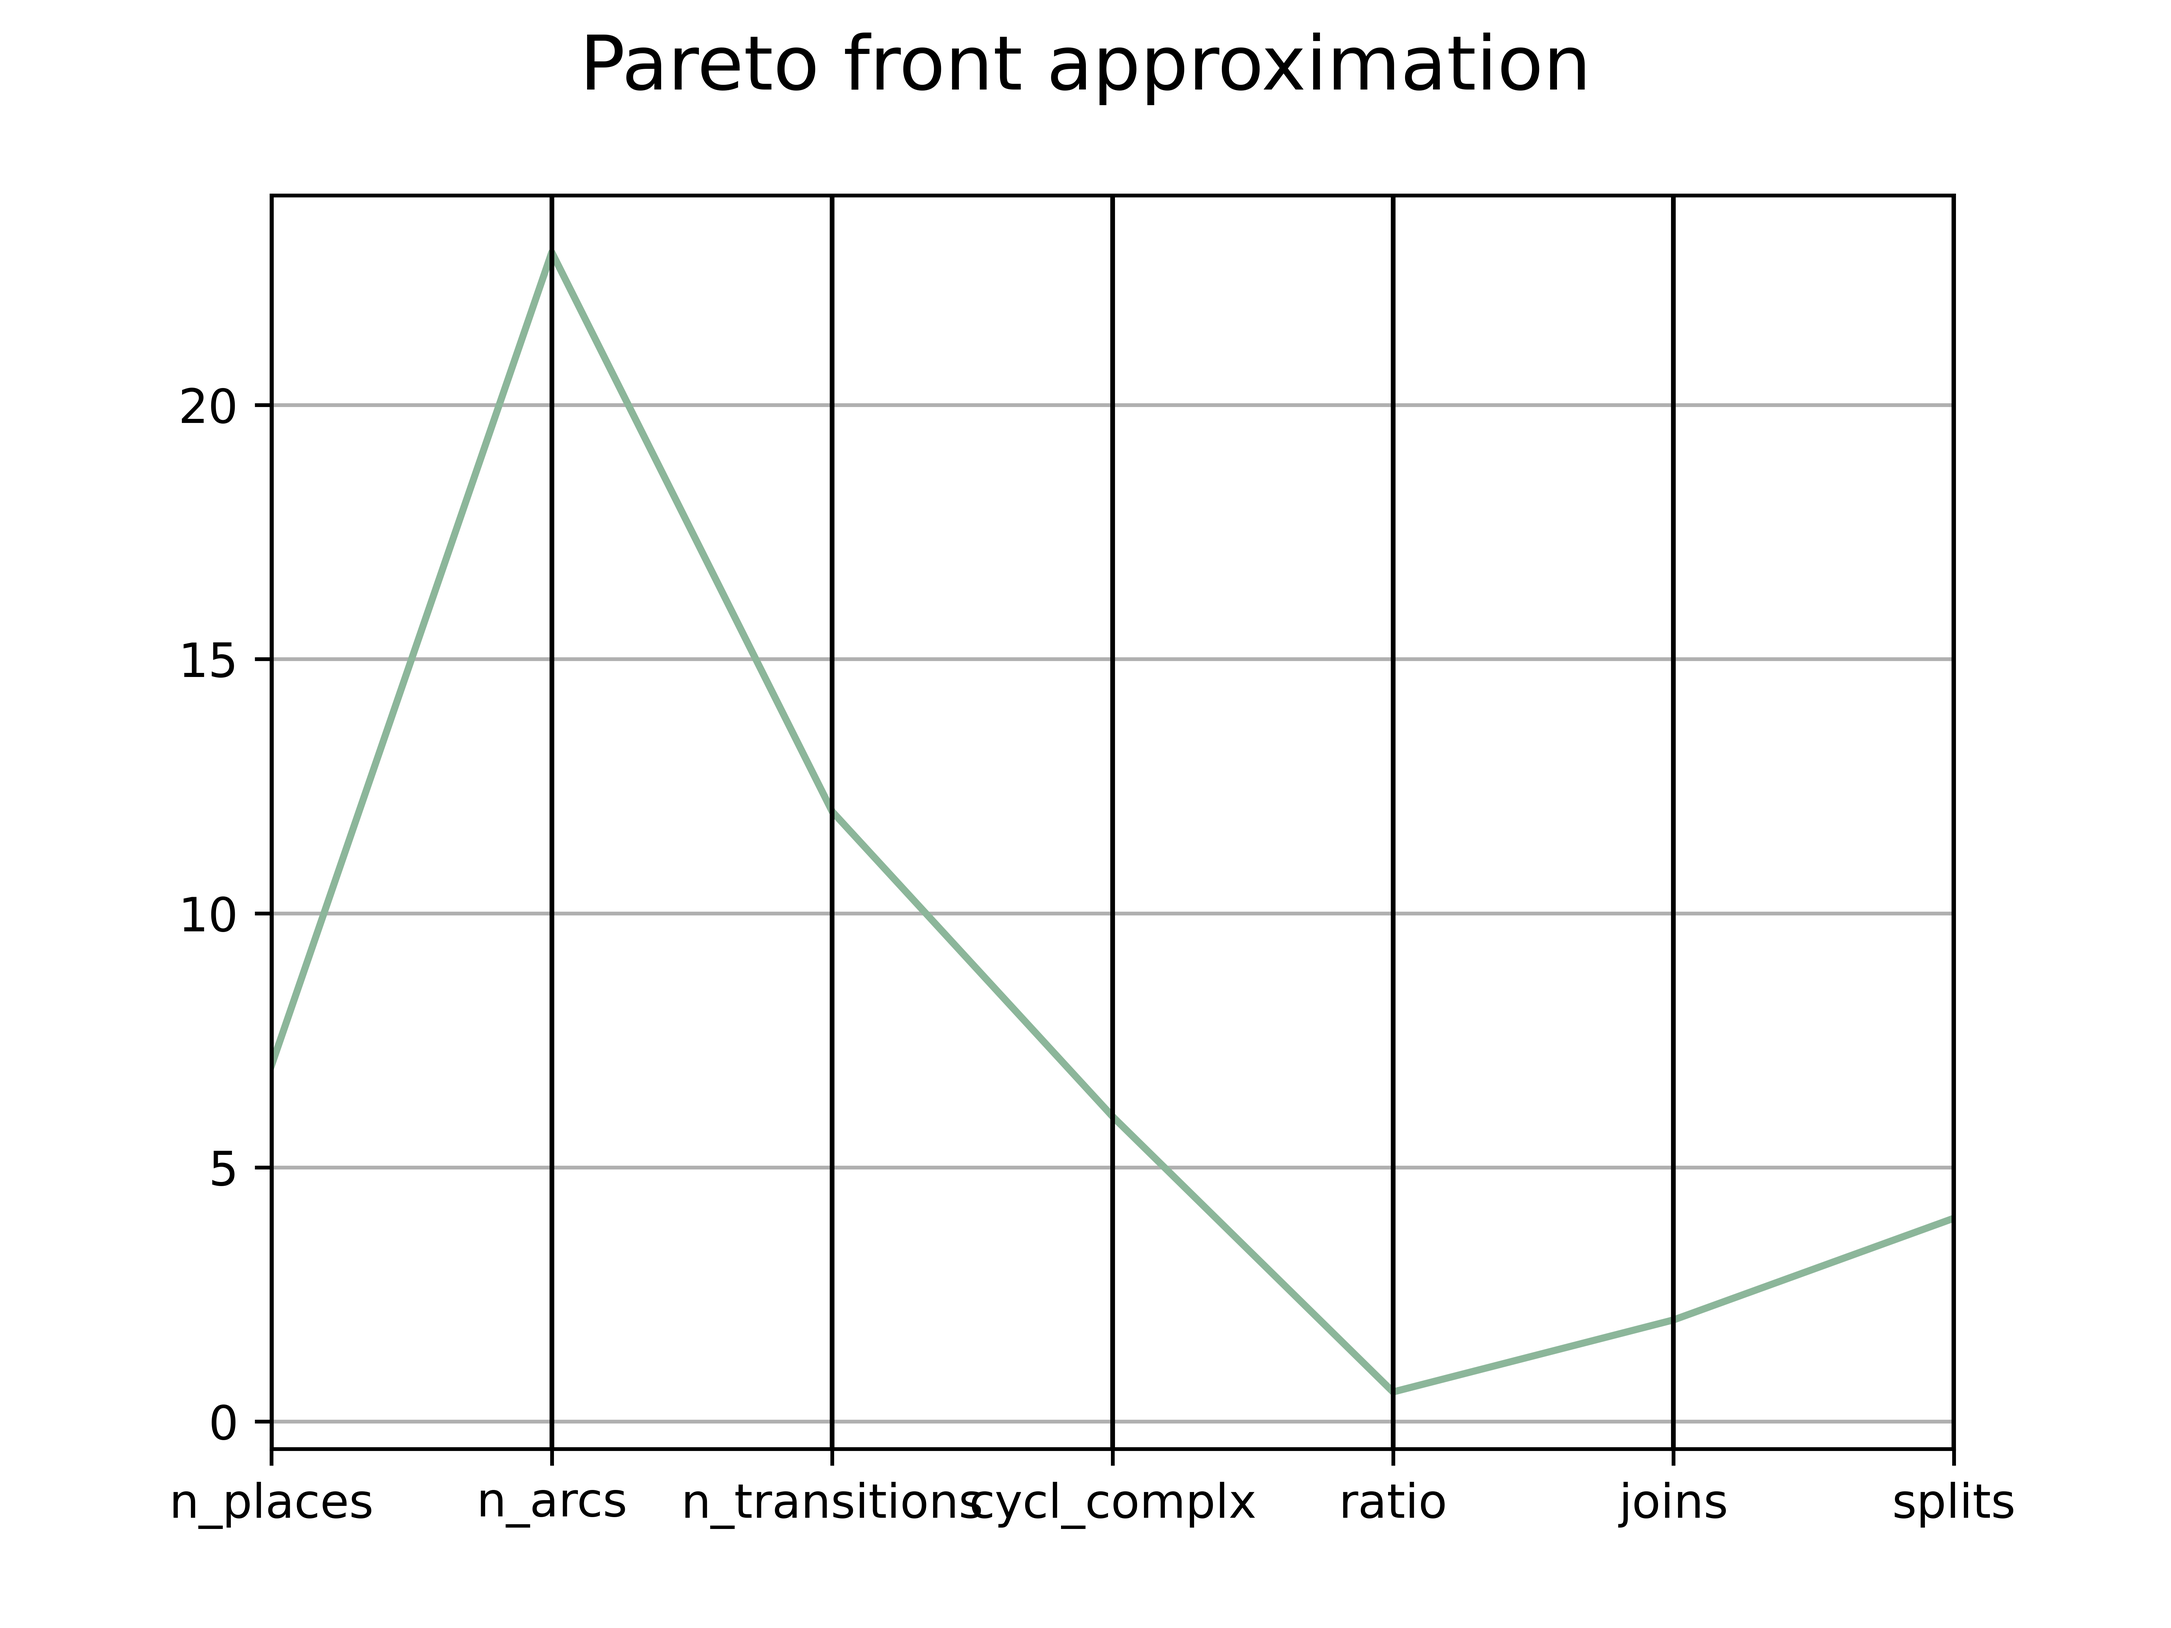
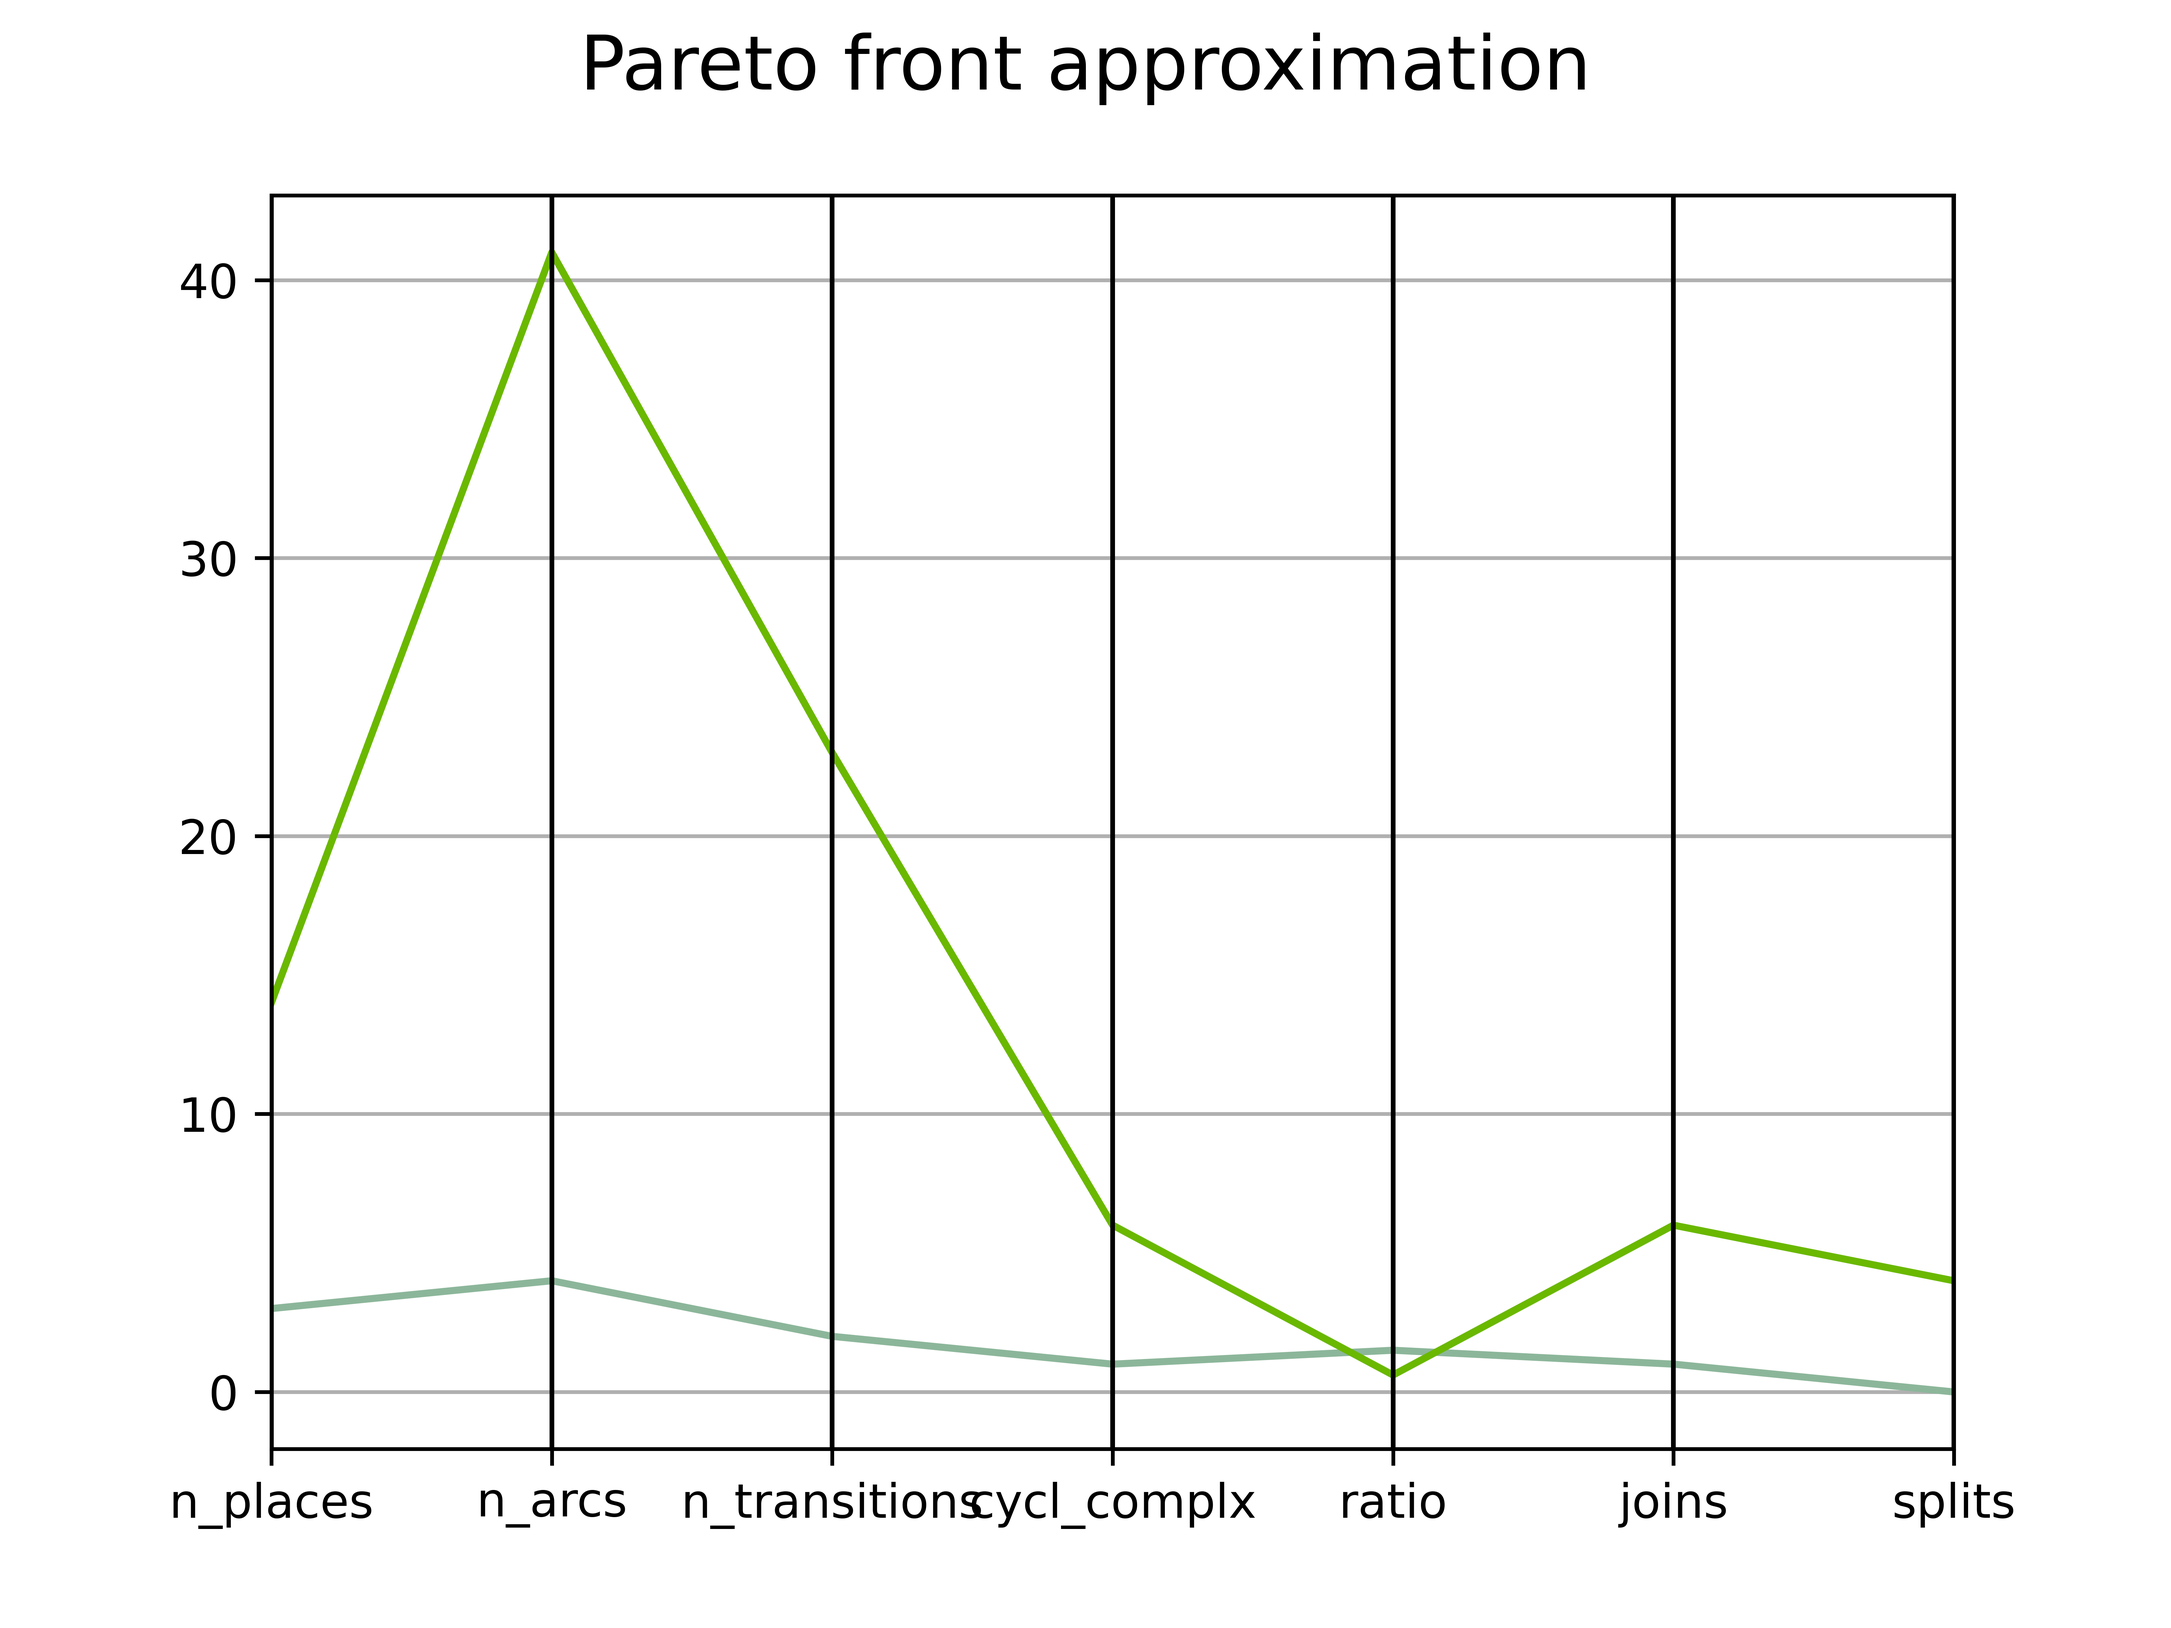
Added log, improved verbosity, added MIN_ACT_COUNT uper bound.

diff --git a/src/optimize_Jmetal.py b/src/optimize_Jmetal.py
@@ -8,6 +8,7 @@ from pm4py.algo.discovery.inductive import algorithm as inductive_miner
 from jmetal.core.problem import FloatProblem, FloatSolution
 from jmetal.algorithm.multiobjective.nsgaii import NSGAII
 from jmetal.util.solution import get_non_dominated_solutions
+from jmetal.lab.visualization import Plot
 
 
 
@@ -50,22 +51,22 @@ class PM_miner_problem(FloatProblem):
         petri, _, _ = self.miner.apply(self.log, parameters= params)
         solution.objectives = self.metrics_obj.get_metrics_array(petri)
         solution.number_of_objectives = self.number_of_objectives
-        #print(solution)
+        
         return solution
 
     def create_solution(self) -> FloatSolution:
         new_solution = FloatSolution(number_of_constraints=self.number_of_constraints,
                                      number_of_objectives=self.number_of_objectives,
                                      lower_bound = self.lower_bound,
-                                     upper_bound = self.upper_bound)
-        
+                                     upper_bound = self.upper_bound)   
         # Random Solution
         random_sol = list()
-        for i in self.parameters_info.param_range.values():
-            if i == int: 
-                random_sol.append(random.randint(self.lower_bound[0], self.upper_bound[1]))
+        for i,j in enumerate(self.parameters_info.param_type.values()):
+            if j == int: 
+                random_sol.append(random.randint(self.lower_bound[i], self.upper_bound[i]))
             else:
-                random_sol.append(random.uniform(self.lower_bound[0], self.upper_bound[1]))
+                random_sol.append(random.uniform(self.lower_bound[i], self.upper_bound[i]))
+
 
         new_solution.variables = random_sol
         return new_solution
@@ -85,27 +86,32 @@ class PM_miner_problem(FloatProblem):
 class Opt_NSGAII():
      
     def __init__(self, miner, log, metrics_obj):
-        self.parameters_info = self.__get_parameters(miner)
+        self.parameters_info = self.__get_parameters(miner, log)
         self.problem = PM_miner_problem(miner, log, metrics_obj, self.parameters_info)
         
 
-    def __get_parameters(self, miner):
+    def __get_parameters(self, miner, log):
         if miner == heuristics_miner:
-            return parameters.Heuristic_Parameters
+            params = parameters.Heuristic_Parameters()
+            params.adjust_heu_params(log)
+            return params
         else:
             raise ValueError(f"Miner '{miner}' not supported. Available miners are: Heuristic, Inductive")
 
-    def discover(self, pop_size, off_pop_size, mutation, crossover, termination_criterion):
-        
-        self.algorithm = NSGAII(problem= self.problem,
-                                population_size=pop_size,
-                                offspring_population_size = off_pop_size,
-                                mutation = mutation,
-                                crossover = crossover,
-                                termination_criterion = termination_criterion)
+    def __show_result(self):
+        print("\n### RESULT ###\n")
+        for (i,j)in enumerate(self.result):
+            print("Solution ",i," :")
+            print("     variables: ",j.variables)
+            print("     objectives:",j.objectives.tolist(),"\n")
+        print("\n##############\n")
+
+    def discover(self, **params):
+        self.algorithm = NSGAII(problem= self.problem,**params)
         
         self.algorithm.run()
         self.result = self.algorithm.result()
+        self.__show_result()
         self.non_dom_sols =  get_non_dominated_solutions(self.algorithm.result()) ## Añadí .all() a archive.py (def add)
 
     def get_result(self):
@@ -116,7 +122,9 @@ class Opt_NSGAII():
 
     def get_petri_net(self):
         best_solution = self.get_best_solution()
+        print("\n### Best Solution ###\n")
         print(best_solution)
+        print("\n#####################\n")
         params = {key: best_solution.variables[idx] for idx, key in enumerate(self.parameters_info.param_range.keys())}
 
         petri_net, initial_marking, final_marking = self.problem.miner.apply(self.problem.log, parameters=params)
@@ -128,7 +136,7 @@ class Opt_NSGAII():
     def plot_pareto_front(self, title, label, filename, format):
 
         front = self.get_non_dominated_sols()
-        plot_front = Plot(title=title, axis_labels=metrics_obj.get_labels())
+        plot_front = Plot(title=title, axis_labels=self.problem.metrics_obj.get_labels())
         plot_front.plot(front, label=label, filename=filename, format=format)
 
     
@@ -140,7 +148,7 @@ if __name__ == "__main__":
     from jmetal.operator.crossover import SBXCrossover
     from jmetal.operator.mutation import PolynomialMutation
     from jmetal.util.termination_criterion import StoppingByEvaluations
-    from jmetal.lab.visualization import Plot
+
 
 
     max_evaluations = 1000

diff --git a/src/process_miner.py b/src/process_miner.py
@@ -1,16 +1,19 @@
 # activate venv -> .\.venv\Scripts\activate
 
-import pm4py
-from pm4py.algo.discovery.heuristics.variants.classic import Parameters as HeuristicsParameters
 from jmetal.algorithm.multiobjective.nsgaii import NSGAII
 from pm4py.algo.discovery.heuristics import algorithm as heuristics_miner
+from pm4py.objects.log.importer.xes import importer as xes_importer
 
-import parameters
+import time
+import os
+
 import optimize_Jmetal
-import optimize_pyGAD
+#import optimize_pyGAD
 import metrics 
 
 class Process_miner:
+
+    log_file = 'doc/log.csv'
 
     miner_mapping = {
         #'inductive': pm4py.algo.discovery.inductive,
@@ -22,22 +25,25 @@ class Process_miner:
     }
 
     def __init__(self, miner_type, opt_type, metrics,  log):
+
+        self.miner_type = miner_type
+        self.opt_type = opt_type
+        self.metrics_type = metrics
+        self.log_name = os.path.basename(log)
+
         self.miner = self.__get_miner_alg(miner_type)
-        self.log = log
-        self.params = self.__init_params(miner_type)
+        self.log = xes_importer.apply(log)
         self.metrics_obj = self.__get_metrics_type(metrics)
 
         self.opt = self.__get_opt_type(opt_type)
+
+        self.local_time = time.strftime("[%Y/%m/%d - %H:%M:%S]", time.localtime())
+        self.star_time = time.time()
 
     def __get_miner_alg(self, miner):
         if miner not in self.miner_mapping:
             raise ValueError(f"Minero '{miner}' no está soportado. Los mineros disponibles son: {list(self.miner_mapping.keys())}")
         return self.miner_mapping[miner]
-    
-    def __init_params(self, miner_type):
-        if miner_type== 'heuristic':
-            params = parameters.Heuristic_Parameters.base_params
-        return params
 
     def __get_metrics_type(self, metrics):
         if metrics not in self.metrics_mapping:
@@ -50,31 +56,54 @@ class Process_miner:
         else: raise ValueError(f'Optimizador {opt_type} no soportado o es incorrecto')
         return opt
     
-    def discover(self, **params):
-        return self.opt.discover(**params)
-        
+    def __log(self):
+        if os.path.isfile(self.log_file):
+            with open(self.log_file, 'a') as log:
+                runtime = str(self.end_time - self.star_time)
+                log.write(f'\n{self.local_time};{runtime};{self.log_name};{self.miner_type};{self.opt_type};{self.__extract_params()};{self.metrics_type};{self.opt.get_best_solution().variables}')
+        else:
+            with open(self.log_file, 'w') as log:
+                log.write('Timestamp, Runtime, Log Name, Miner Type, Opt type, Opt Parameters, Metrics type, Optimal solution')
+            self.__log()
 
+    def __extract_params(self):
+        dicc = dict()
+        for (attr_name, attr_value) in self.params.items():
+            if hasattr(attr_value, '__dict__'):
+                dicc[attr_name] = attr_value.__dict__
+            else:
+                dicc[attr_name] = attr_value
+        return dicc
+
+    def discover(self, **params):
+        self.params = params
+        disc = self.opt.discover(**params)
+        self.end_time = time.time()
+        self.__log()
+        return disc
+                
 ## TESTING
 if __name__ == "__main__":
         
-    from pm4py.objects.log.importer.xes import importer as xes_importer
     from pm4py.visualization.petri_net import visualizer as pn_visualizer
     from jmetal.operator.crossover import SBXCrossover
     from jmetal.operator.mutation import PolynomialMutation
     from jmetal.util.termination_criterion import StoppingByEvaluations
-    from jmetal.lab.visualization import Plot
 
 
-    max_evaluations = 1000
 
-    log = xes_importer.apply('test/Closed/BPI_Challenge_2013_closed_problems.xes')
+    max_evaluations = 10000
+
+    #log = 'test/Closed/BPI_Challenge_2013_closed_problems.xes'
+    log = 'test/Financial/BPI_Challenge_2012.xes'
+    
     p_miner = Process_miner(miner_type='heuristic',
                             opt_type='NSGA-II',
                             metrics='basic',
                             log = log)
     
-    p_miner.discover(pop_size=100,
-                     off_pop_size=100,
+    p_miner.discover(population_size=100,
+                     offspring_population_size=100,
                      mutation = PolynomialMutation(probability=1.0 / p_miner.opt.problem.number_of_variables, distribution_index=20),
                      crossover = SBXCrossover(probability=1.0, distribution_index=20),
                      termination_criterion=StoppingByEvaluations(max_evaluations=max_evaluations))

diff --git a/src/pruebas.py b/src/pruebas.py
@@ -1,27 +1,29 @@
-from jmetal.algorithm.multiobjective.ibea import IBEA
-from jmetal.operator.crossover import SBXCrossover
-from jmetal.operator.mutation import PolynomialMutation
-from jmetal.problem import ZDT1
-from jmetal.util.termination_criterion import StoppingByEvaluations
+from pm4py.algo.discovery.heuristics import algorithm as heuristics_miner
+from pm4py.objects.log.importer.xes import importer as xes_importer
+from pm4py.visualization.petri_net import visualizer as pn_visualizer
+import parameters
+import numpy as np
+import pandas as pd
 
-problem = ZDT1()
 
-max_evaluations = 2500
 
-algorithm = IBEA(
-    problem=problem,
-    kappa=1.,
-    population_size=100,
-    offspring_population_size=100,
-    mutation=PolynomialMutation(probability=1.0 / float(problem.number_of_variables()), distribution_index=20),
-    crossover=SBXCrossover(probability=1.0, distribution_index=20),
-    termination_criterion=StoppingByEvaluations(max_evaluations)
-)
+log = xes_importer.apply('test/Financial/BPI_Challenge_2012.xes')
+base_params = parameters.Heuristic_Parameters.base_params
+params = [0.5836558245697305, 0.21489094849903473, np.float64(18376.16368557422), 6.443691641453263, 0.9946396111587875, 0.4529568498101284]
+params = [0.9540982738419803, 0.8323425979823712, 54840, 6, 0.6518876642720254, 0.23811459344233893]
+params = [0.9999525676553562, 0.9149726963715235, np.float64(1189.8006990838908), 3.0328536280343013, 0.014722361202136103, 0.9294802030455518]
 
-algorithm.run()
-front = algorithm.result()
 
-from jmetal.lab.visualization.plotting import Plot
+def params_petri(params):
 
-plot_front = Plot(title='Pareto front approximation', axis_labels=['x', 'y'])
-plot_front.plot(front, label='IBEA-ZDT1', filename='IBEA-ZDT1', format='png')
+    disc_params = dict()
+    for (i,j) in zip(base_params.keys(), params):
+        disc_params[i] = j
+    print(disc_params)
+
+    petri, im, fm = heuristics_miner.apply(log, disc_params)
+    gviz = pn_visualizer.apply(petri, im, fm)
+    pn_visualizer.view(gviz)
+
+df = pd.read_csv('doc/log.csv', delimiter=";")
+print(df.head())

diff --git a/src/parameters.py b/src/parameters.py
@@ -1,4 +1,5 @@
 from pm4py.algo.discovery.heuristics.variants.classic import Parameters as HeuristicsParameters
+import pm4py
 
 class Heuristic_Parameters():
 
@@ -17,10 +18,12 @@ class Heuristic_Parameters():
         HeuristicsParameters.DEPENDENCY_THRESH : [0, 1],
         HeuristicsParameters.AND_MEASURE_THRESH : [0, 1],
         HeuristicsParameters.MIN_ACT_COUNT: [1, 1000],
-        HeuristicsParameters.MIN_DFG_OCCURRENCES: [1, 1000],
+        HeuristicsParameters.MIN_DFG_OCCURRENCES: [1, 10],
         HeuristicsParameters.DFG_PRE_CLEANING_NOISE_THRESH: [0, 1],
         HeuristicsParameters.LOOP_LENGTH_TWO_THRESH: [0, 1]
     }
+
+#    [0.9997896792467974, 0.8672423645658718, 0.9474892596581139, 0.46234702286865903, 0.6449204674954552, 0.4588659015710691]
 
     param_type = {
         HeuristicsParameters.DEPENDENCY_THRESH : float,
@@ -30,3 +33,14 @@ class Heuristic_Parameters():
         HeuristicsParameters.DFG_PRE_CLEANING_NOISE_THRESH: float,
         HeuristicsParameters.LOOP_LENGTH_TWO_THRESH: float
     }
+
+    def adjust_heu_params(self, log):
+        log = pm4py.convert_to_dataframe(log)
+
+        max_activity_count = log['concept:name'].value_counts().max()
+        #min_activity_count = log['concept:name'].value_counts().min()
+
+        self.param_range[HeuristicsParameters.MIN_ACT_COUNT] = [0, max_activity_count]
+        #self.param_range[HeuristicsParameters.MIN_DFG_OCCURRENCES] = [min_activity_count, max_activity_count]
+
+        #print(self.param_range)
